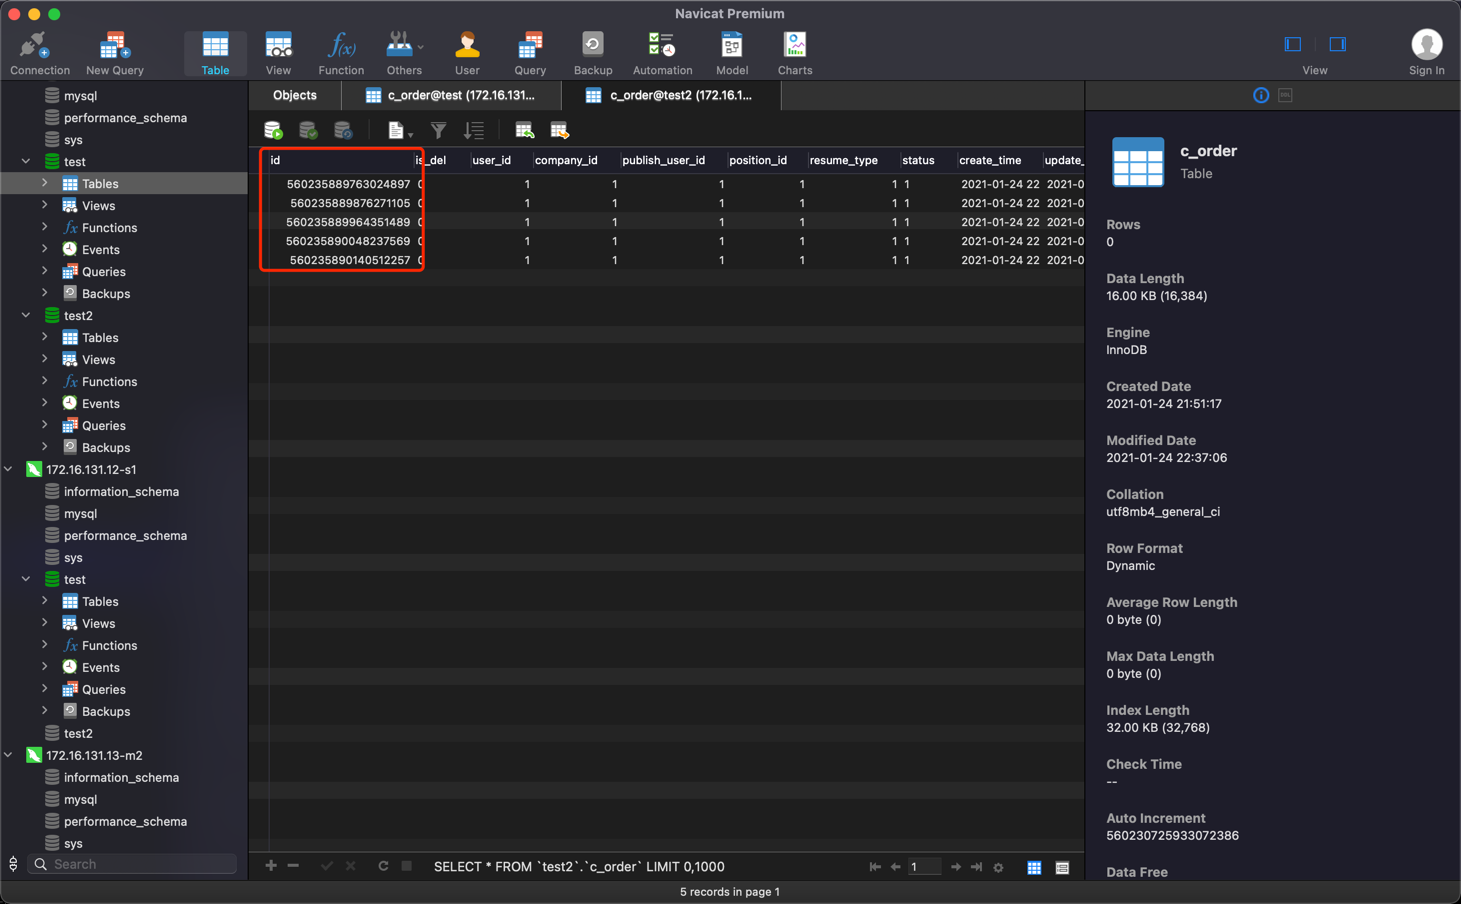
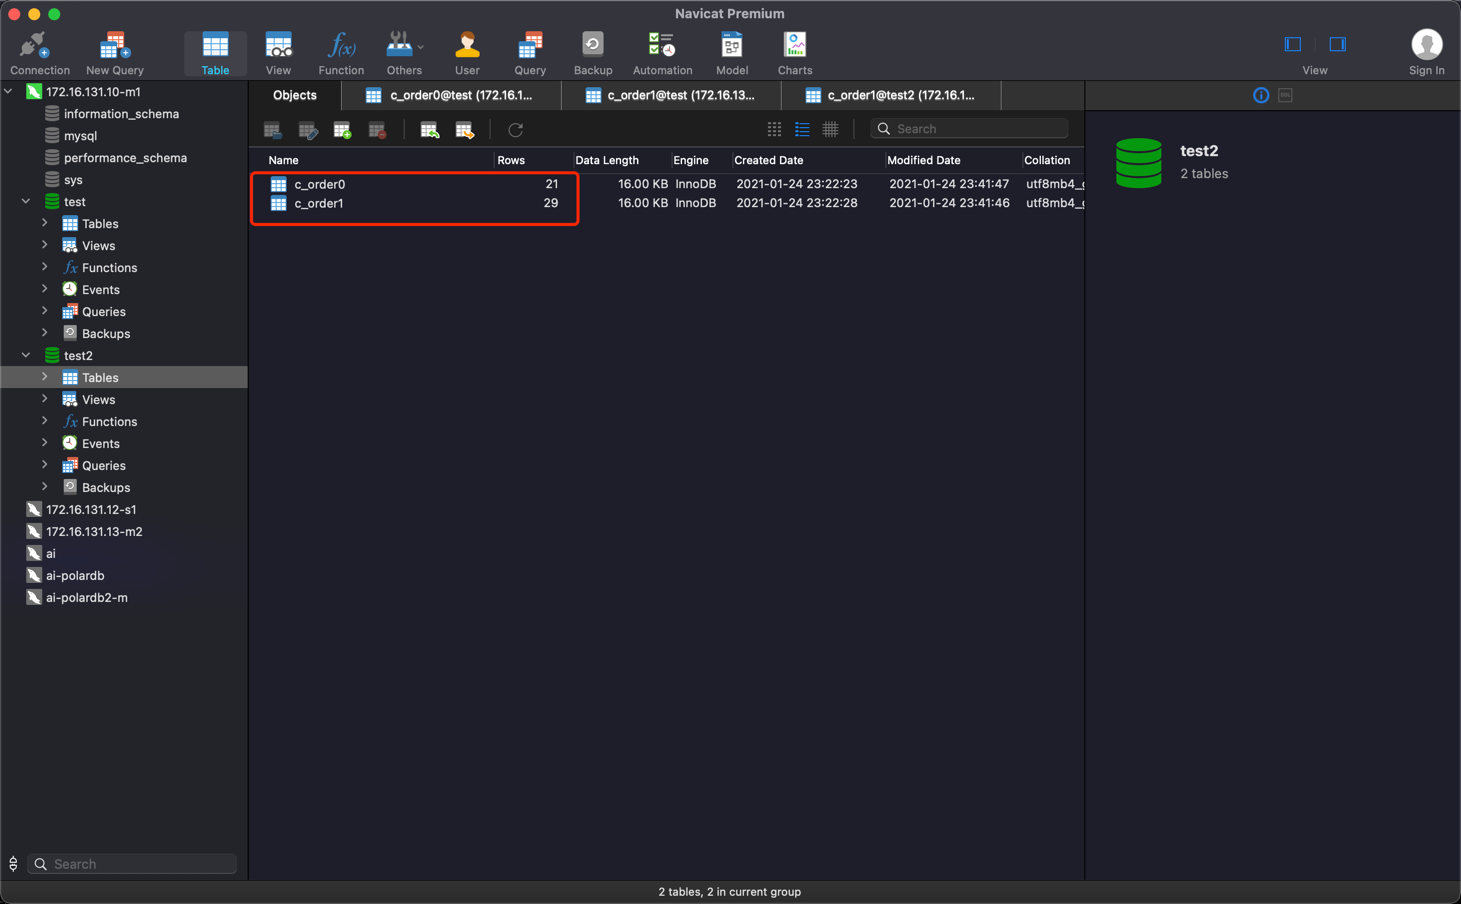
2主4从

diff --git a/shardingsphere-jdbc/src/test/java/com/ydh/redsheep/shardingspherejdbc/TaskTests.java b/shardingsphere-jdbc/src/test/java/com/ydh/redsheep/shardingspherejdbc/TaskTests.java
@@ -15,6 +15,7 @@ import org.springframework.transaction.annotation.Transactional;
 import javax.annotation.Resource;
 import java.util.Date;
 import java.util.List;
+import java.util.Random;
 
 @SpringBootTest
 class TaskTests {
@@ -24,10 +25,10 @@ class TaskTests {
 
     @Test
     public void add(){
-        for (int i=1;i<=10;i++){
+        for (int i=1;i<=100;i++){
             COrderPO cOrderPO = new COrderPO();
-            cOrderPO.setUserId(1);
-            cOrderPO.setCompanyId(1);
+            cOrderPO.setUserId(new Random().nextInt(10));
+            cOrderPO.setCompanyId(i);
             cOrderPO.setPositionId(1);
             cOrderPO.setResumeType(1);
             cOrderPO.setPublishUserId(1);

diff --git a/作业.md b/作业.md
@@ -6,10 +6,13 @@ TaskTests
 
 ## 执行
 #### TaskTests#add方法
+加100条数据，查看
+日志：
 ![img.png](img.png)
+m0的库中：
 ![img_1.png](img_1.png)
+m1的库中：
 ![img_2.png](img_2.png)
-可以看到m0和m1两个数据库都有插入
 #### TaskTests#getAll
-
-能把所有的都查询出来
+![img_3.png](img_3.png)
+从库中把所有的都查询出来
